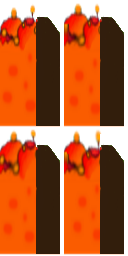
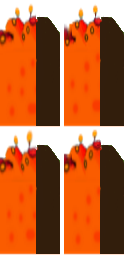
fixes

diff --git a/Web/Scripts/app/Demo/Stats.ts b/Web/Scripts/app/Demo/Stats.ts
@@ -45,10 +45,11 @@ export class Stats {
 
     /**
      *  Updates stats that increase/decrease over time.
-     *  The update is calculated in a second interval.
+     *  The update is calculated in a half second interval.
      */
     public onUpdate = (dt: number) => {
 
+        let INTERVAL = 500;
         var now = Date.now() / 1000;
 
         //  accumulate dps
@@ -57,10 +58,10 @@ export class Stats {
                 let dps = 0;
                 switch (i) {
                     case 1000:  // lava border
-                        dps = 10;
+                        dps = 5;
                         break;
-                    case 1000:  // lava
-                        dps = 24;
+                    case 1001:  // lava
+                        dps = 15;
                         break;
                 }
                 let dmg = dt * 0.001 * dps;
@@ -68,10 +69,10 @@ export class Stats {
             }
         }
 
-        //  handle once per second ticks
+        //  handle once per interval ticks
         this.accumulator += dt;
-        if (this.accumulator > 1000) {
-            this.accumulator -= 1000;
+        if (this.accumulator > INTERVAL) {
+            this.accumulator -= INTERVAL;
 
             //  dust
             if (this.stats[StatType.Dust] < this.stats[StatType.MaxDust]) {
@@ -112,7 +113,7 @@ export class Stats {
     }
 
     /**
-     *   Stores timestamps (unix timestamps in seconds with fractions) when the buff elapses.
+     *   Stores timestamps (Unix timestamps in seconds with fractions) when the buff elapses.
      */
     public Buffs: Array<number> = [];
 

diff --git a/Web/Scripts/app/Demo/InGameScene.ts b/Web/Scripts/app/Demo/InGameScene.ts
@@ -204,11 +204,11 @@ export class InGameScene extends Scene {
                 break;
 
             case 1000:  //   border lava                
-                playerStats.Buffs[1000] = this.secondsFromNow(2);
+                playerStats.Buffs[1000] = this.secondsFromNow(1);
                 break;
 
             case 1001:  //  lava
-                playerStats.Buffs[1001] = this.secondsFromNow(5);
+                playerStats.Buffs[1001] = this.secondsFromNow(3);
                 break;
         }
     }

diff --git a/Web/Scripts/app/Demo/Lava.ts b/Web/Scripts/app/Demo/Lava.ts
@@ -9,8 +9,7 @@ export class Lava extends AnimatedSprite {
 
         textureName = textureName || "assets/images/objects/lava.png";
         this.addAnimations(new AnimationSequence("lava", textureName, [0, 1, 2, 3], this.FRAME_SIZE_X, this.FRAME_SIZE_Y));
-        //this.scale.set(1, 2);
         this.Anchor = new PIXI.Point(0.5, 0.30);
-        this.PlayAnimation("lava", 4);
+        this.PlayAnimation("lava", 3);
     }
 }
